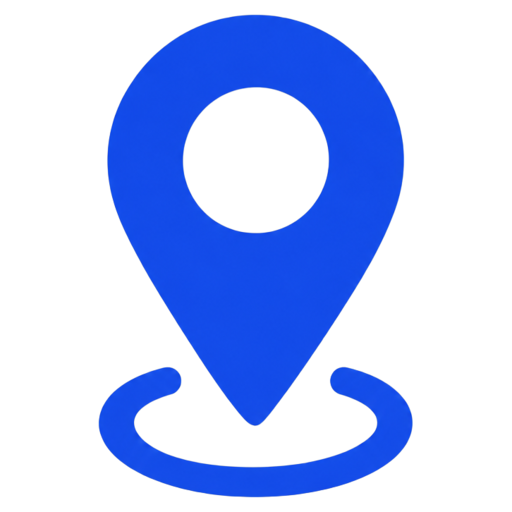
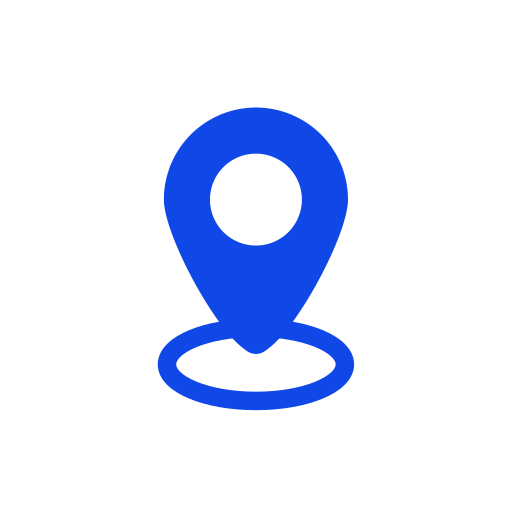
Novo logotipo: pin azul com o nome em duas linhas, em todo o site e nos ícones do app

Changed region(s): [[0.1875, 0.0312, 0.8125, 1.0]]

diff --git a/src/components/Header.tsx b/src/components/Header.tsx
@@ -1,11 +1,10 @@
 import { Link, useLocation, useNavigate } from "react-router-dom";
-import { Home, Building2, Store, Menu, Heart, LogIn, LogOut, User, Briefcase, UserPlus, X, MapPin, MoreVertical, MessageSquare, ClipboardCheck, Bot, Crown, ShieldCheck } from "lucide-react";
+import { Home, Building2, Store, Menu, Heart, LogIn, LogOut, User, Briefcase, UserPlus, X, MoreVertical, MessageSquare, ClipboardCheck, Bot, Crown, ShieldCheck } from "lucide-react";
 import { ThemeToggle } from "./ThemeToggle";
 import { Button } from "./ui/button";
 import { Sheet, SheetContent, SheetTrigger, SheetClose } from "./ui/sheet";
 import { useState } from "react";
 import { DropdownMenu, DropdownMenuContent, DropdownMenuItem, DropdownMenuSeparator, DropdownMenuTrigger } from "./ui/dropdown-menu";
-import logo from "@/assets/logo.png";
 import { useFavorites } from "@/hooks/useFavorites";
 import { useAuth } from "@/contexts/AuthContext";
 import { useUserRole } from "@/hooks/useUserRole";
@@ -16,6 +15,7 @@ import { Avatar, AvatarFallback, AvatarImage } from "./ui/avatar";
 import { useUnreadConversations } from "@/hooks/useUnreadConversations";
 import { AIChatSheet } from "./AIChatSheet";
 import { useAdminNotifications } from "@/hooks/useAdminNotifications";
+import { BrandLogo } from "./BrandLogo";
 
 const ENTRY_ICONS: Record<MenuEntryId, typeof Briefcase> = {
   cadastrar: UserPlus,
@@ -61,11 +61,7 @@ function ConsumerHeader() {
       <div className="container flex h-14 md:h-16 items-center justify-between px-3 md:px-4">
         {/* Logo */}
         <Link to="/informacoes" className="flex items-center gap-1.5 hover:opacity-90 transition-opacity">
-          <MapPin className="h-5 w-5 md:h-6 md:w-6 text-primary" />
-          <div className="flex flex-col leading-none">
-            <span className="font-bold text-sm md:text-base text-primary tracking-tight">Comércio</span>
-            <span className="font-bold text-sm md:text-base text-foreground -mt-0.5 tracking-tight">Vizinho</span>
-          </div>
+          <BrandLogo size="md" />
         </Link>
 
         {/* Desktop Navigation - Clean horizontal */}
@@ -197,11 +193,7 @@ function ConsumerHeader() {
               {/* Mobile menu header */}
               <div className="flex items-center justify-between p-3 border-b border-border">
                 <div className="flex items-center gap-1.5">
-                  <MapPin className="h-4 w-4 text-primary" />
-                  <div className="flex flex-col leading-none">
-                    <span className="font-bold text-xs text-primary">Comércio</span>
-                    <span className="font-bold text-xs text-foreground -mt-0.5">Vizinho</span>
-                  </div>
+                  <BrandLogo size="sm" />
                 </div>
                 <SheetClose asChild>
                   <Button variant="ghost" size="icon" className="rounded-full h-8 w-8">

diff --git a/src/components/BrandLogo.test.tsx b/src/components/BrandLogo.test.tsx
@@ -1,0 +1,58 @@
+// @vitest-environment jsdom
+import { describe, it, expect, afterEach } from 'vitest';
+import { cleanup, render, screen } from '@testing-library/react';
+import { readFileSync } from 'node:fs';
+import { resolve } from 'node:path';
+import { BrandLogo, BrandMark } from './BrandLogo';
+
+afterEach(() => cleanup());
+
+describe('BrandLogo', () => {
+  it('mostra o nome em duas linhas, como no modelo: "Comércio" e "Vizinho"', () => {
+    render(<BrandLogo />);
+    expect(screen.getByText('Comércio')).toBeTruthy();
+    expect(screen.getByText('Vizinho')).toBeTruthy();
+    const lines = screen.getByText('Comércio').parentElement!;
+    expect(lines.className).toContain('flex-col');
+  });
+
+  it('é um único item para leitor de tela, com o nome da marca', () => {
+    render(<BrandLogo />);
+    expect(screen.getByRole('img', { name: 'Comércio Vizinho' })).toBeTruthy();
+  });
+
+  it('o símbolo é decorativo e usa a cor da marca (que muda no tema escuro)', () => {
+    const { container } = render(<BrandMark />);
+    const svg = container.querySelector('svg')!;
+    expect(svg.getAttribute('aria-hidden')).toBe('true');
+    const colored = Array.from(svg.querySelectorAll('ellipse, path')).map((el) => (el as SVGElement).getAttribute('style') ?? '');
+    expect(colored.filter((s) => s.includes('var(--brand-blue)')).length).toBe(2);
+  });
+
+  it('vários logotipos na mesma página não se atrapalham (recorte com id único)', () => {
+    const { container } = render(<><BrandMark /><BrandMark /></>);
+    const masks = Array.from(container.querySelectorAll('mask')).map((m) => m.id);
+    expect(masks).toHaveLength(2);
+    expect(new Set(masks).size).toBe(2);
+    container.querySelectorAll('ellipse').forEach((e, i) => expect(e.getAttribute('mask')).toBe(`url(#${masks[i]})`));
+  });
+
+  it('tamanhos', () => {
+    const { container } = render(<BrandLogo size="lg" />);
+    expect(container.querySelector('svg')!.getAttribute('class')).toContain('h-12');
+  });
+});
+
+describe('cores e ícones do logotipo', () => {
+  const css = readFileSync(resolve(__dirname, '../index.css'), 'utf-8');
+  it('azul do logotipo no tema claro e um azul mais claro no escuro', () => {
+    expect(css).toMatch(/:root \{[\s\S]*?--brand-blue: #1048E8;/);
+    expect(css).toMatch(/\.dark \{[\s\S]*?--brand-blue: #4C7DFF;/);
+  });
+  it('o logotipo estático (aba do navegador) usa o mesmo azul e não tem fundo branco', () => {
+    const svg = readFileSync(resolve(__dirname, '../../public/favicon.svg'), 'utf-8');
+    expect(svg).toContain('#1048E8');
+    // o único retângulo branco é o da máscara de recorte; fora dela não há fundo
+    expect(svg.replace(/<mask[\s\S]*?<\/mask>/, '')).not.toMatch(/<rect/i);
+  });
+});

diff --git a/src/components/BrandLogo.tsx b/src/components/BrandLogo.tsx
@@ -1,0 +1,65 @@
+import { useId } from "react";
+import { cn } from "@/lib/utils";
+
+// Logotipo do Comércio Vizinho: pin azul com um círculo vazado e um anel na base.
+// Desenhado em vetor (SVG): fica nítido em qualquer tamanho e usa a cor da marca, que muda
+// sozinha no tema escuro (variável --brand-blue em index.css).
+// O anel é "recortado" em volta da ponta do pin com máscara, então o logotipo não tem
+// fundo branco e funciona sobre qualquer cor.
+
+const VIEW_BOX = "167.5 24.5 67 99";
+const PIN_PATH = "M172.27 56.41A28.71 28.71 0 0 1 229.69 56.41C229.69 67.18 214.17 96.06 204.93 102.77Q200.98 106.33 197.03 102.77C187.79 96.06 172.27 67.18 172.27 56.41Z";
+const HOLE_PATH = "M186.65 56.41a14.33 14.33 0 1 0 28.66 0a14.33 14.33 0 1 0 -28.66 0Z";
+const RING = { cx: 200.98, cy: 107.8, rx: 27.74, ry: 11.4, strokeWidth: 5.77 };
+const GAP = 5.45;
+
+export function BrandMark({ className }: { className?: string }) {
+  const id = useId().replace(/[^a-zA-Z0-9]/g, "");
+  const maskId = `pin-recorte-${id}`;
+  return (
+    <svg viewBox={VIEW_BOX} className={cn("shrink-0", className)} aria-hidden="true" focusable="false">
+      <defs>
+        <mask id={maskId} maskUnits="userSpaceOnUse" x="167.5" y="24.5" width="67.0" height="99.0">
+          <rect x="167.5" y="24.5" width="67.0" height="99.0" fill="white" />
+          <path d={PIN_PATH} fill="black" stroke="black" strokeWidth={GAP * 2} strokeLinejoin="round" />
+        </mask>
+      </defs>
+      <ellipse
+        cx={RING.cx}
+        cy={RING.cy}
+        rx={RING.rx}
+        ry={RING.ry}
+        fill="none"
+        strokeWidth={RING.strokeWidth}
+        style={{ stroke: "var(--brand-blue)" }}
+        mask={`url(#${maskId})`}
+      />
+      <path d={`${PIN_PATH}${HOLE_PATH}`} fillRule="evenodd" style={{ fill: "var(--brand-blue)" }} />
+    </svg>
+  );
+}
+
+const SIZES = {
+  sm: { icon: "h-7", text: "text-[11px]" },
+  md: { icon: "h-8 md:h-9", text: "text-[13px] md:text-[15px]" },
+  lg: { icon: "h-12", text: "text-xl" },
+} as const;
+
+interface BrandLogoProps {
+  size?: keyof typeof SIZES;
+  className?: string;
+}
+
+/** Logotipo + nome em duas linhas ("Comércio" / "Vizinho"). */
+export function BrandLogo({ size = "md", className }: BrandLogoProps) {
+  const s = SIZES[size];
+  return (
+    <span role="img" aria-label="Comércio Vizinho" className={cn("inline-flex items-center gap-2", className)}>
+      <BrandMark className={cn(s.icon, "w-auto")} />
+      <span className={cn("flex flex-col font-bold leading-[1.05] tracking-tight text-foreground", s.text)} aria-hidden="true">
+        <span>Comércio</span>
+        <span>Vizinho</span>
+      </span>
+    </span>
+  );
+}

diff --git a/src/pages/AdminLogin.tsx b/src/pages/AdminLogin.tsx
@@ -6,7 +6,7 @@ import { Button } from '@/components/ui/button';
 import { Card, CardContent, CardDescription, CardHeader, CardTitle } from '@/components/ui/card';
 import { Helmet } from 'react-helmet-async';
 import { ArrowLeft, ShieldCheck, Loader2, AlertTriangle } from 'lucide-react';
-import logo from '@/assets/logo.png';
+import { BrandMark } from '@/components/BrandLogo';
 
 export default function AdminLogin() {
   const navigate = useNavigate();
@@ -36,7 +36,7 @@ export default function AdminLogin() {
         <div className="min-h-screen flex items-center justify-center bg-background p-4">
           <Card className="w-full max-w-md border-0 shadow-elevated rounded-3xl">
             <CardHeader className="text-center">
-              <img src={logo} alt="Logo" className="h-16 w-16 rounded-2xl mx-auto mb-4" />
+              <BrandMark className="h-16 w-auto mx-auto mb-4" />
               <CardTitle>Painel Administrativo</CardTitle>
               <CardDescription className="flex items-center justify-center gap-2 text-amber-600">
                 <AlertTriangle className="h-4 w-4" />
@@ -65,7 +65,7 @@ export default function AdminLogin() {
         <div className="min-h-screen flex items-center justify-center bg-background p-4">
           <Card className="w-full max-w-md border-0 shadow-elevated rounded-3xl">
             <CardHeader className="text-center">
-              <img src={logo} alt="Logo" className="h-16 w-16 rounded-2xl mx-auto mb-4" />
+              <BrandMark className="h-16 w-auto mx-auto mb-4" />
               <CardTitle>Acesso Restrito</CardTitle>
               <CardDescription className="text-destructive flex items-center justify-center gap-2">
                 <AlertTriangle className="h-4 w-4" />
@@ -90,7 +90,7 @@ export default function AdminLogin() {
       <div className="min-h-screen flex items-center justify-center bg-background p-4">
         <Card className="w-full max-w-md border-0 shadow-elevated rounded-3xl">
           <CardHeader className="text-center">
-            <img src={logo} alt="Logo" className="h-16 w-16 rounded-2xl mx-auto mb-4" />
+            <BrandMark className="h-16 w-auto mx-auto mb-4" />
             <CardTitle className="flex items-center justify-center gap-2">
               <ShieldCheck className="h-6 w-6 text-primary" />
               Painel Administrativo

diff --git a/src/components/MerchantHeader.tsx b/src/components/MerchantHeader.tsx
@@ -1,5 +1,5 @@
 import { Link, NavLink, useNavigate } from "react-router-dom";
-import { Briefcase, Crown, ExternalLink, LayoutDashboard, LogOut, MapPin, MessageSquare } from "lucide-react";
+import { Briefcase, Crown, ExternalLink, LayoutDashboard, LogOut, MessageSquare } from "lucide-react";
 import { ThemeToggle } from "./ThemeToggle";
 import { Button } from "./ui/button";
 import { Avatar, AvatarFallback } from "./ui/avatar";
@@ -13,6 +13,7 @@ import {
 import { useAuth } from "@/contexts/AuthContext";
 import { useUnreadConversations } from "@/hooks/useUnreadConversations";
 import { MERCHANT_BASE, MERCHANT_COMPANY, MERCHANT_HOME } from "@/config/areas";
+import { BrandLogo } from "./BrandLogo";
 
 const NAV = [
   { to: MERCHANT_HOME, label: "Visão geral", icon: LayoutDashboard, end: true },
@@ -43,11 +44,9 @@ export function MerchantHeader() {
     <header className="sticky top-0 z-50 w-full bg-card/95 backdrop-blur-md border-b border-border">
       <div className="container flex h-14 md:h-16 items-center justify-between px-3 md:px-4">
         <Link to={MERCHANT_HOME} className="flex items-center gap-1.5 hover:opacity-90 transition-opacity" aria-label="Painel do comerciante">
-          <MapPin className="h-5 w-5 md:h-6 md:w-6 text-primary" aria-hidden="true" />
-          <div className="flex flex-col leading-none">
-            <span className="font-bold text-sm md:text-base text-primary tracking-tight">Comércio Vizinho</span>
-            <span className="text-[10px] md:text-xs text-muted-foreground -mt-0.5">Painel do comerciante</span>
-          </div>
+          <BrandLogo size="md" />
+          <span className="hidden md:block h-8 w-px bg-border mx-1" aria-hidden="true" />
+          <span className="hidden md:block w-[5.5rem] text-xs font-medium text-muted-foreground leading-tight">Painel do comerciante</span>
         </Link>
 
         <nav className="hidden md:flex items-center gap-0.5" aria-label="Painel do comerciante">

diff --git a/src/pages/Auth.tsx b/src/pages/Auth.tsx
@@ -17,6 +17,7 @@ import { z } from 'zod';
 import { Alert, AlertDescription } from '@/components/ui/alert';
 import { Checkbox } from '@/components/ui/checkbox';
 import { homeForRole } from '@/config/areas';
+import { BrandLogo } from '@/components/BrandLogo';
 
 export default function Auth() {
   const { user, isLoading, signUp, signIn, recoverPassword, userRole } = useAuth();
@@ -202,7 +203,10 @@ export default function Auth() {
         <main className="flex-1 flex items-center justify-center p-4">
           <Card className="w-full max-w-md border-0 shadow-elevated rounded-3xl">
             <CardHeader className="text-center pb-4">
-              <CardTitle className="text-2xl font-bold">Comércio Vizinho</CardTitle>
+              <div className="flex justify-center mb-3">
+                <BrandLogo size="lg" />
+              </div>
+              <CardTitle className="sr-only">Comércio Vizinho</CardTitle>
               <CardDescription>
                 {mode === 'login' && 'Entre na sua conta'}
                 {mode === 'signup' && 'Crie sua conta'}

diff --git a/src/pages/Information.tsx b/src/pages/Information.tsx
@@ -3,7 +3,7 @@ import { Footer } from "@/components/Footer";
 import { Card, CardContent, CardDescription, CardHeader, CardTitle } from "@/components/ui/card";
 import { FileText, Shield, Info, ArrowRight } from "lucide-react";
 import { Link } from "react-router-dom";
-import logo from "@/assets/logo.png";
+import { BrandLogo } from "@/components/BrandLogo";
 
 export default function Information() {
   return (
@@ -12,7 +12,7 @@ export default function Information() {
       <main className="flex-1 container px-4 py-8">
         <div className="max-w-2xl mx-auto">
           <div className="flex flex-col items-center mb-8">
-            <img src={logo} alt="Comércio Vizinho" className="h-20 w-20 rounded-full object-cover mb-4" />
+            <BrandLogo size="lg" className="mb-4" />
             <h1 className="text-2xl font-bold text-center">Comércio Vizinho</h1>
             <p className="text-muted-foreground text-center mt-2">
               Informações institucionais e documentos legais

diff --git a/src/components/Footer.tsx b/src/components/Footer.tsx
@@ -1,5 +1,6 @@
 import { Link } from "react-router-dom";
-import { MessageCircle, Mail, MapPin } from "lucide-react";
+import { MessageCircle, Mail } from "lucide-react";
+import { BrandLogo } from "./BrandLogo";
 
 export function Footer() {
   const currentYear = new Date().getFullYear();
@@ -11,8 +12,7 @@ export function Footer() {
           {/* Logo e Sobre */}
           <div className="col-span-2">
             <Link to="/" className="flex items-center gap-1.5 mb-3">
-              <MapPin className="h-5 w-5 text-primary" />
-              <span className="font-bold text-base">Comércio Vizinho</span>
+              <BrandLogo size="md" />
             </Link>
             <p className="text-xs md:text-sm text-muted-foreground mb-3 max-w-sm leading-relaxed">
               Conectando você aos melhores estabelecimentos do seu bairro. 

diff --git a/src/index.css b/src/index.css
@@ -14,6 +14,8 @@ Design: Azul marinho institucional #0B1E2D, Azul médio #1E6FD9, Fundo #F5F7FA
 
 @layer base {
   :root {
+    /* Azul do logotipo */
+    --brand-blue: #1048E8;
     /* Cores principais - Modo Claro - Design Marketplace */
     /* Fundo principal: #FFFFFF */
     --background: 0 0% 100%;
@@ -81,6 +83,8 @@ Design: Azul marinho institucional #0B1E2D, Azul médio #1E6FD9, Fundo #F5F7FA
   }
 
   .dark {
+    /* Azul do logotipo, mais claro para ter contraste no fundo escuro */
+    --brand-blue: #4C7DFF;
     /* Cores principais - Modo Escuro */
     --background: 209 40% 8%;
     --foreground: 210 20% 95%;

diff --git a/index.html b/index.html
@@ -37,6 +37,7 @@
     <meta name="twitter:image" content="https://storage.googleapis.com/gpt-engineer-file-uploads/ovVNOYN7NgQ4AYIxNcDMw0tj8CH3/social-images/social-1766754337851-Untitled design.png">
 
     <!-- PWA -->
+    <link rel="icon" href="/favicon.svg" type="image/svg+xml" />
     <link rel="icon" href="/favicon.png" type="image/png" />
     <link rel="manifest" href="/manifest.json" />
     <link rel="apple-touch-icon" href="/icon-192.png" />
